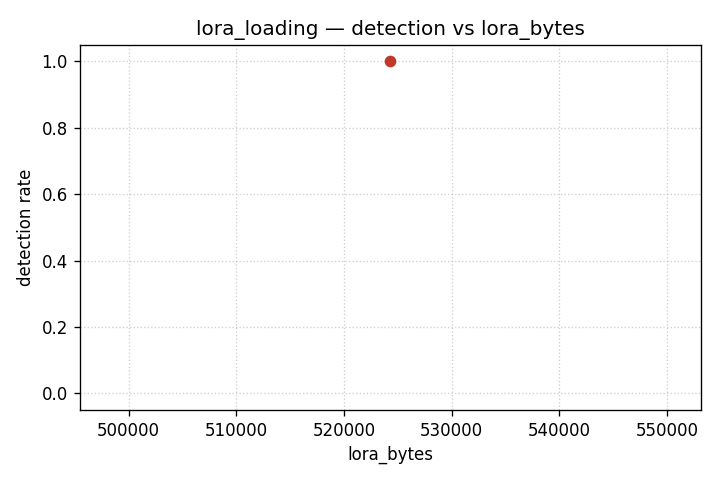
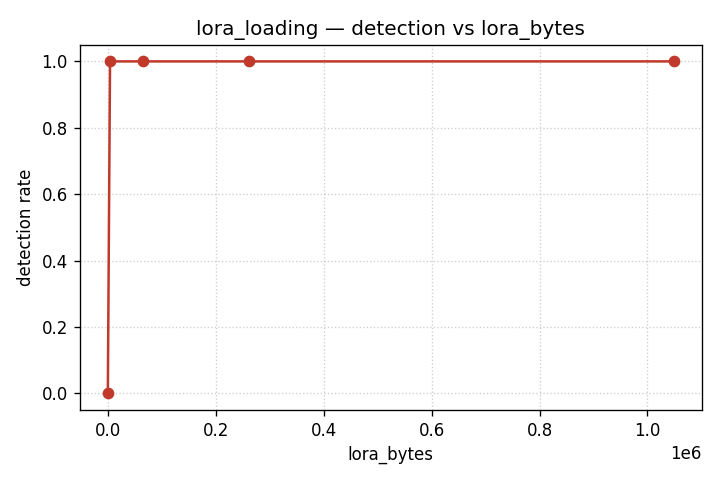
prover-verifier: regenerate eval data from full sweep (16 cells, not smoke)
The committed results.jsonl was a 3-row --smoke output, which made
plot_results.py draw single-point curves (one per workload). The
viewer.html embedded the same thin data. Reviewers reported the
graphs looked empty.

This commit replaces the smoke output with a full-sweep run:
  - benign × {seed=0..4}        ⇒ all inference (5 rows)
  - mixed_lora × {grad=0,1,2,4,8,16} ⇒ inference at 0, training_or_exfil
                                       at every nonzero value (6 rows)
  - lora_loading × {bytes=0,4k,64k,256k,1M} ⇒ inference at 0,
                                       training_or_exfil at every nonzero
                                       value (5 rows)

The two detection curves now show clean step functions: detection
rate = 0 at the honest knob value, = 1.0 at every cheating value
the harness sweeps. With tolerance fixed at 10% and a small inference
baseline (~5 KB / ~5 KFLOP), any nonzero gradient_steps or lora_bytes
exceeds the (1 + 0.10) envelope, so the threshold sits between 0 and
the smallest sweep step. A sub-knob-resolution sweep is open work
(noted in the memo's adversarial-robustness next-step).

Affected artefacts:
  - data/eval/results.jsonl   3 rows -> 16 rows
  - figures/*.png             single-point -> step-function curves
  - viewer.html               3 rows -> 16 rows (~13 KB, still well
                              under the 50 KB plan budget)

diff --git a/experiments/prover-verifier-demo/viewer.html b/experiments/prover-verifier-demo/viewer.html
@@ -46,7 +46,7 @@
 </div>
 
 <script>
-const BUNDLE = {"rows":[{"claimed_flops":5120,"knob_param":"seed","knob_value":0,"observed_flops":0,"reasons":[],"runtime_s":3.933,"signals":{"bandwidth":"pass","compute_budget":"pass","replay_correctness":"pass"},"traffic_size":5120,"verdict":"inference","workload":"benign"},{"claimed_flops":5120,"knob_param":"gradient_steps","knob_value":8,"observed_flops":21504,"reasons":["compute budget exceeded: observed_flops=21504 vs claimed_flops=5120 (tolerance=0.10)"],"runtime_s":3.683,"signals":{"bandwidth":"pass","compute_budget":"fail","replay_correctness":"pass"},"traffic_size":5120,"verdict":"training_or_exfil","workload":"mixed_lora"},{"claimed_flops":2560,"knob_param":"lora_bytes","knob_value":524288,"observed_flops":0,"reasons":["bandwidth exceeded: traffic_size=526848 bytes vs claimed_artifact_bytes=2560 (tolerance=0.10)"],"runtime_s":3.684,"signals":{"bandwidth":"fail","compute_budget":"pass","replay_correctness":"pass"},"traffic_size":526848,"verdict":"training_or_exfil","workload":"lora_loading"}]};
+const BUNDLE = {"rows":[{"claimed_flops":5120,"knob_param":"seed","knob_value":0,"observed_flops":0,"reasons":[],"runtime_s":7.468,"signals":{"bandwidth":"pass","compute_budget":"pass","replay_correctness":"pass"},"traffic_size":5120,"verdict":"inference","workload":"benign"},{"claimed_flops":5120,"knob_param":"seed","knob_value":1,"observed_flops":0,"reasons":[],"runtime_s":7.452,"signals":{"bandwidth":"pass","compute_budget":"pass","replay_correctness":"pass"},"traffic_size":5120,"verdict":"inference","workload":"benign"},{"claimed_flops":5120,"knob_param":"seed","knob_value":2,"observed_flops":0,"reasons":[],"runtime_s":7.17,"signals":{"bandwidth":"pass","compute_budget":"pass","replay_correctness":"pass"},"traffic_size":5120,"verdict":"inference","workload":"benign"},{"claimed_flops":5120,"knob_param":"seed","knob_value":3,"observed_flops":0,"reasons":[],"runtime_s":7.106,"signals":{"bandwidth":"pass","compute_budget":"pass","replay_correctness":"pass"},"traffic_size":5120,"verdict":"inference","workload":"benign"},{"claimed_flops":5120,"knob_param":"seed","knob_value":4,"observed_flops":0,"reasons":[],"runtime_s":7.278,"signals":{"bandwidth":"pass","compute_budget":"pass","replay_correctness":"pass"},"traffic_size":5120,"verdict":"inference","workload":"benign"},{"claimed_flops":5120,"knob_param":"gradient_steps","knob_value":0,"observed_flops":5120,"reasons":[],"runtime_s":7.266,"signals":{"bandwidth":"pass","compute_budget":"pass","replay_correctness":"pass"},"traffic_size":5120,"verdict":"inference","workload":"mixed_lora"},{"claimed_flops":5120,"knob_param":"gradient_steps","knob_value":1,"observed_flops":7168,"reasons":["compute budget exceeded: observed_flops=7168 vs claimed_flops=5120 (tolerance=0.10)"],"runtime_s":6.996,"signals":{"bandwidth":"pass","compute_budget":"fail","replay_correctness":"pass"},"traffic_size":5120,"verdict":"training_or_exfil","workload":"mixed_lora"},{"claimed_flops":5120,"knob_param":"gradient_steps","knob_value":2,"observed_flops":9216,"reasons":["compute budget exceeded: observed_flops=9216 vs claimed_flops=5120 (tolerance=0.10)"],"runtime_s":7.168,"signals":{"bandwidth":"pass","compute_budget":"fail","replay_correctness":"pass"},"traffic_size":5120,"verdict":"training_or_exfil","workload":"mixed_lora"},{"claimed_flops":5120,"knob_param":"gradient_steps","knob_value":4,"observed_flops":13312,"reasons":["compute budget exceeded: observed_flops=13312 vs claimed_flops=5120 (tolerance=0.10)"],"runtime_s":7.059,"signals":{"bandwidth":"pass","compute_budget":"fail","replay_correctness":"pass"},"traffic_size":5120,"verdict":"training_or_exfil","workload":"mixed_lora"},{"claimed_flops":5120,"knob_param":"gradient_steps","knob_value":8,"observed_flops":21504,"reasons":["compute budget exceeded: observed_flops=21504 vs claimed_flops=5120 (tolerance=0.10)"],"runtime_s":7.405,"signals":{"bandwidth":"pass","compute_budget":"fail","replay_correctness":"pass"},"traffic_size":5120,"verdict":"training_or_exfil","workload":"mixed_lora"},{"claimed_flops":5120,"knob_param":"gradient_steps","knob_value":16,"observed_flops":37888,"reasons":["compute budget exceeded: observed_flops=37888 vs claimed_flops=5120 (tolerance=0.10)"],"runtime_s":7.109,"signals":{"bandwidth":"pass","compute_budget":"fail","replay_correctness":"pass"},"traffic_size":5120,"verdict":"training_or_exfil","workload":"mixed_lora"},{"claimed_flops":2560,"knob_param":"lora_bytes","knob_value":0,"observed_flops":0,"reasons":[],"runtime_s":7.117,"signals":{"bandwidth":"pass","compute_budget":"pass","replay_correctness":"pass"},"traffic_size":2560,"verdict":"inference","workload":"lora_loading"},{"claimed_flops":2560,"knob_param":"lora_bytes","knob_value":4096,"observed_flops":0,"reasons":["bandwidth exceeded: traffic_size=6656 bytes vs claimed_artifact_bytes=2560 (tolerance=0.10)"],"runtime_s":7.053,"signals":{"bandwidth":"fail","compute_budget":"pass","replay_correctness":"pass"},"traffic_size":6656,"verdict":"training_or_exfil","workload":"lora_loading"},{"claimed_flops":2560,"knob_param":"lora_bytes","knob_value":65536,"observed_flops":0,"reasons":["bandwidth exceeded: traffic_size=68096 bytes vs claimed_artifact_bytes=2560 (tolerance=0.10)"],"runtime_s":7.339,"signals":{"bandwidth":"fail","compute_budget":"pass","replay_correctness":"pass"},"traffic_size":68096,"verdict":"training_or_exfil","workload":"lora_loading"},{"claimed_flops":2560,"knob_param":"lora_bytes","knob_value":262144,"observed_flops":0,"reasons":["bandwidth exceeded: traffic_size=264704 bytes vs claimed_artifact_bytes=2560 (tolerance=0.10)"],"runtime_s":7.055,"signals":{"bandwidth":"fail","compute_budget":"pass","replay_correctness":"pass"},"traffic_size":264704,"verdict":"training_or_exfil","workload":"lora_loading"},{"claimed_flops":2560,"knob_param":"lora_bytes","knob_value":1048576,"observed_flops":0,"reasons":["bandwidth exceeded: traffic_size=1051136 bytes vs claimed_artifact_bytes=2560 (tolerance=0.10)"],"runtime_s":7.145,"signals":{"bandwidth":"fail","compute_budget":"pass","replay_correctness":"pass"},"traffic_size":1051136,"verdict":"training_or_exfil","workload":"lora_loading"}]};
 
 function fmt(n) { return n.toLocaleString(); }
 function pct(x) { return (x * 100).toFixed(0) + "%"; }